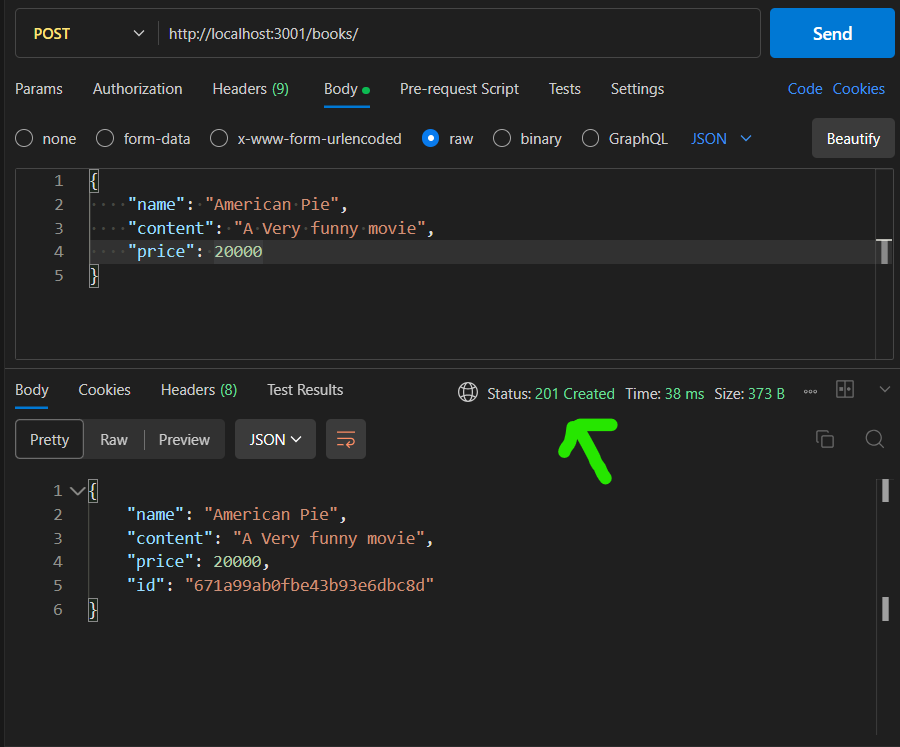
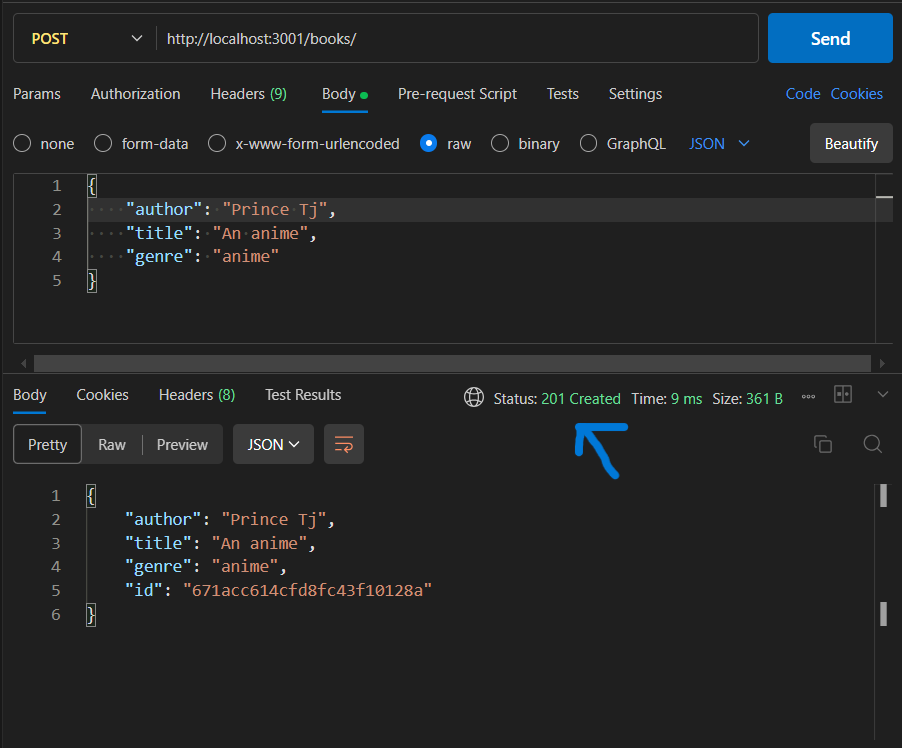
change my database model fields and related changes

diff --git a/tests/book_api.test.js b/tests/book_api.test.js
@@ -36,9 +36,9 @@ describe('Book Store API', () => {
 
   test('can successfully add a book', async () => {
     const dataToSend = {
-      name: 'Stranger Things',
-      content: 'Eleven is the strongest',
-      price: 1500,
+      author: 'Eleven Doery',
+      title: 'Eleven is the strongest in Stranger things',
+      genre: 'action',
     };
     // Get the data from the DB (Database) before making req
     const booksBeforeReq = await dataInDB();
@@ -46,27 +46,28 @@ describe('Book Store API', () => {
     // Get the data from the DB (Database) after making req
     const booksAfterReq = await dataInDB();
 
-    const bookNames = booksAfterReq.map((item) => item.name);
-    strictEqual(req.body.name, dataToSend.name);
+    const bookAuthors = booksAfterReq.map((item) => item.author);
+    strictEqual(req.body.author, dataToSend.author);
     strictEqual(booksAfterReq.length, initialDataLength + 1);
-    strictEqual(bookNames.includes(dataToSend.name), true);
+    strictEqual(bookAuthors.includes(dataToSend.author), true);
   });
 
   test('can successfully update a specific book', async () => {
     const booksBeforeReq = await dataInDB();
     const dataToUpdate = booksBeforeReq[0];
     const dataToUpdateWith = {
-      name: 'Anime',
-      content: 'Anime is the best',
-      price: 1000000,
+      author: 'Light Yagami',
+      title: 'Anime is the best',
+      genre: 'anime',
     };
+
     const req = await api
       .put(`${rootRoute}/${dataToUpdate.id}`)
       .send(dataToUpdateWith)
       .expect(200);
 
     const booksAfterReq = await dataInDB();
-    strictEqual(dataToUpdateWith.name, req.body.name);
+    strictEqual(dataToUpdateWith.author, req.body.author);
     deepStrictEqual(getDataWithoutId(booksAfterReq)[0], dataToUpdateWith);
   });
 
@@ -77,10 +78,10 @@ describe('Book Store API', () => {
     const req = await api.delete(`${rootRoute}/${dataToDelete.id}`).expect(204);
     const booksAfterReq = await dataInDB();
 
-    const bookNames = booksAfterReq.map((item) => item.name);
+    const bookAuthors = booksAfterReq.map((item) => item.author);
 
     strictEqual(booksAfterReq.length, initialDataLength - 1);
-    strictEqual(bookNames.includes(dataToDelete.name), false);
+    strictEqual(bookAuthors.includes(dataToDelete.author), false);
   });
 
   afterEach(async () => {

diff --git a/tests/test_helper.js b/tests/test_helper.js
@@ -2,14 +2,14 @@ const Book = require('../model/books');
 
 const initialData = [
   {
-    name: 'book name is this',
-    content: 'alway do this',
-    price: 200,
+    author: 'John Smith',
+    title: 'alway do this',
+    genre: 'motivational',
   },
   {
-    name: 'Peaky Blinders',
-    content: 'alway do this',
-    price: 100,
+    author: 'Peaky Blinders',
+    title: 'do not do this and that',
+    genre: 'crime',
   },
 ];
 

diff --git a/model/books.js b/model/books.js
@@ -15,17 +15,17 @@ mongoose
   });
 
 const bookSchema = new mongoose.Schema({
-  name: {
+  author: {
     type: String,
     required: true,
-    minLength: 5,
+    minLength: 3,
   },
-  content: {
+  title: {
     type: String,
     required: true,
   },
-  price: {
-    type: Number,
+  genre: {
+    type: String,
     required: true,
   },
 });

diff --git a/README.md b/README.md
@@ -83,9 +83,9 @@ This is a solution for Hack51 backend bookstore challenge
 ```js
 
     {
-        "name": "American Pie",
-        "content": "A Very funny movie",
-        "price": 20000
+        "author": "Jerry Mcguire",
+        "title": "American Pie",
+        "genre": "comedy"
     }
 
 ```
@@ -103,9 +103,9 @@ This is a solution for Hack51 backend bookstore challenge
 ```js
 
     {
-        "name": "American Pie",
-        "content": "A Very funny movie",
-        "price": 20000
+        "author": "Jame nobfly",
+        "title": "Your Lie in April",
+        "genre": "anime"
     }
 
 ```
